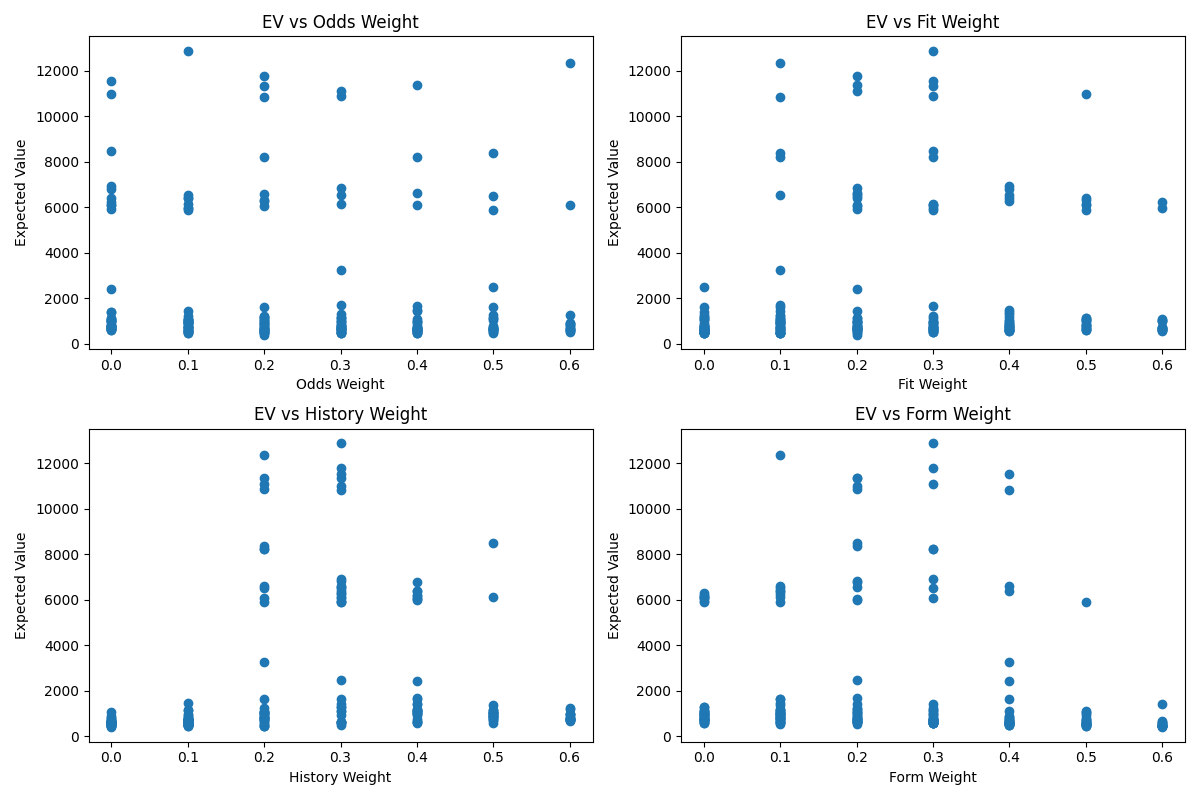
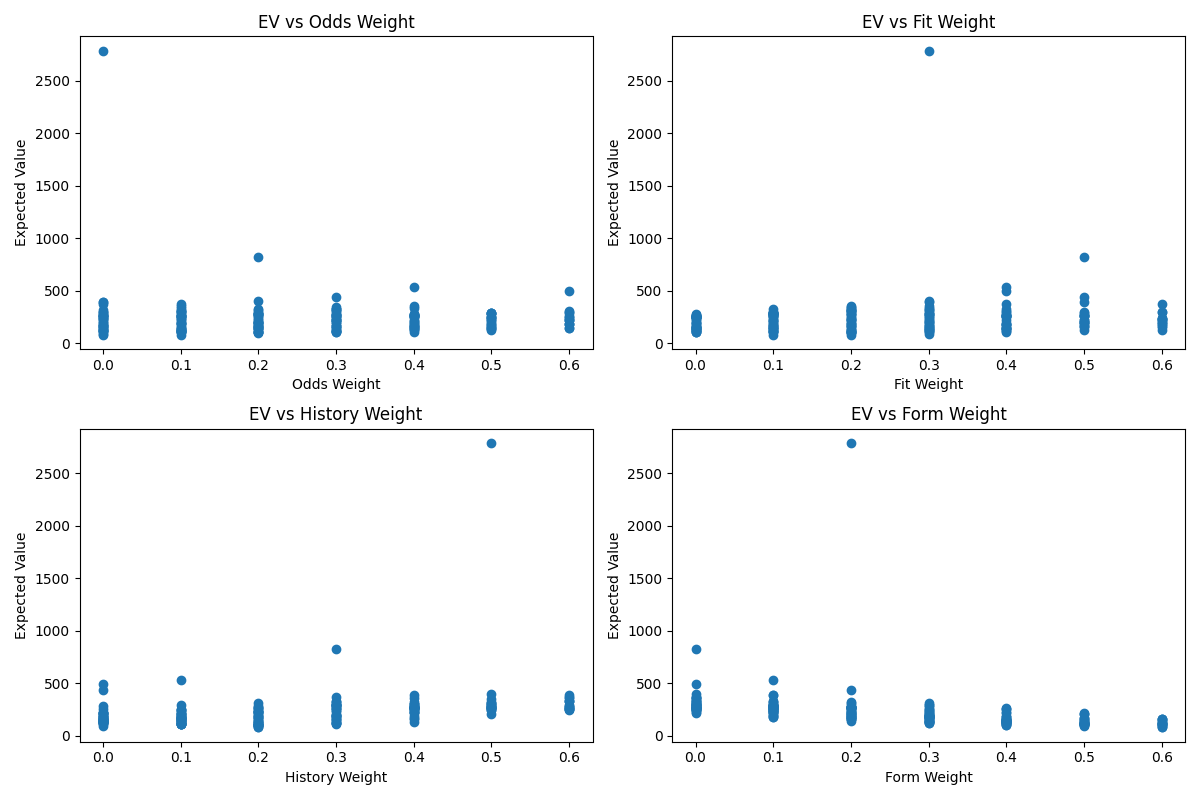
commented out func

diff --git a/pga_v5.py b/pga_v5.py
@@ -535,64 +535,64 @@ def calculate_fit_score_from_csv(name: str, course_fit_df: pd.DataFrame) -> floa
     max_rank = course_fit_df['projected_course_fit'].max()
     return 100 * (1 - (fit_score / max_rank))
 
-def calculate_form_score(tourney: str, weights: dict) -> pd.DataFrame:
-    """
-    Calculate form score by merging current and long-term form data with weights
+# def calculate_form_score(tourney: str, weights: dict) -> pd.DataFrame:
+#     """
+#     Calculate form score by merging current and long-term form data with weights
     
-    Args:
-        tourney: Tournament name
-        weights: Dictionary containing form weights
+#     Args:
+#         tourney: Tournament name
+#         weights: Dictionary containing form weights
     
-    Returns:
-        DataFrame with merged form data and final form score
-    """
-    # Load PGA stats (long-term form)
-    pga_stats = pd.read_csv(f'2025/{tourney}/pga_stats.csv')
+#     Returns:
+#         DataFrame with merged form data and final form score
+#     """
+#     # Load PGA stats (long-term form)
+#     pga_stats = pd.read_csv(f'2025/{tourney}/pga_stats.csv')
     
-    # Initialize form DataFrame with long-term stats
-    form_df = pga_stats[['Name', 'sg_total']].copy()
-    form_df = form_df.rename(columns={'sg_total': 'long_term_form'})
+#     # Initialize form DataFrame with long-term stats
+#     form_df = pga_stats[['Name', 'sg_total']].copy()
+#     form_df = form_df.rename(columns={'sg_total': 'long_term_form'})
     
-    # Try to load current form data
-    current_form_path = f'2025/{tourney}/current_form.csv'
-    if os.path.exists(current_form_path):
-        print("Loading and merging current form data...")
-        current_form = pd.read_csv(current_form_path)
+#     # Try to load current form data
+#     current_form_path = f'2025/{tourney}/current_form.csv'
+#     if os.path.exists(current_form_path):
+#         print("Loading and merging current form data...")
+#         current_form = pd.read_csv(current_form_path)
         
-        # Calculate current form total
-        sg_columns = ['sg_off_tee', 'sg_approach', 'sg_around_green', 'sg_putting']
-        finishes = current_form['recent_finishes'].apply(_parse_recent_finishes)
-        current_form['current_form'] = current_form[sg_columns].sum(axis=1)
+#         # Calculate current form total
+#         sg_columns = ['sg_off_tee', 'sg_approach', 'sg_around_green', 'sg_putting']
+#         finishes = current_form['recent_finishes'].apply(_parse_recent_finishes)
+#         current_form['current_form'] = current_form[sg_columns].sum(axis=1)
 
         
-        # Merge with form_df, using outer join to keep all players from both sources
-        form_df = pd.merge(
-            form_df, 
-            current_form[['Name', 'current_form']], 
-            on='Name', 
-            how='outer'  # Changed from 'left' to 'outer'
-        )
+#         # Merge with form_df, using outer join to keep all players from both sources
+#         form_df = pd.merge(
+#             form_df, 
+#             current_form[['Name', 'current_form']], 
+#             on='Name', 
+#             how='outer'  # Changed from 'left' to 'outer'
+#         )
         
-        # Fill NaN values with the other source if available
-        form_df['current_form'] = form_df['current_form'].fillna(form_df['long_term_form'])
-        form_df['long_term_form'] = form_df['long_term_form'].fillna(form_df['current_form'])
+#         # Fill NaN values with the other source if available
+#         form_df['current_form'] = form_df['current_form'].fillna(form_df['long_term_form'])
+#         form_df['long_term_form'] = form_df['long_term_form'].fillna(form_df['current_form'])
         
-        # Calculate weighted form score
-        # For players with only current form, use that exclusively
-        form_df['Form Score'] = np.where(
-            form_df['long_term_form'].isna(),
-            form_df['current_form'],  # Use only current form if no long-term data
-            form_df['current_form'] * weights['form']['current'] + 
-            form_df['long_term_form'] * weights['form']['long']
-        )
-    else:
-        print("Current form data not found, using PGA stats only")
-        form_df['Form Score'] = form_df['long_term_form']
+#         # Calculate weighted form score
+#         # For players with only current form, use that exclusively
+#         form_df['Form Score'] = np.where(
+#             form_df['long_term_form'].isna(),
+#             form_df['current_form'],  # Use only current form if no long-term data
+#             form_df['current_form'] * weights['form']['current'] + 
+#             form_df['long_term_form'] * weights['form']['long']
+#         )
+#     else:
+#         print("Current form data not found, using PGA stats only")
+#         form_df['Form Score'] = form_df['long_term_form']
     
-    # Clean up intermediate columns
-    form_df = form_df[['Name', 'Form Score']]
+#     # Clean up intermediate columns
+#     form_df = form_df[['Name', 'Form Score']]
     
-    return form_df
+#     return form_df
 
 def normalize_with_outlier_handling(series: pd.Series) -> pd.Series:
     """

diff --git a/backtest/pga_v5_backtest.py b/backtest/pga_v5_backtest.py
@@ -232,7 +232,7 @@ def backtest_weights() -> Tuple[List[Dict], List[float], List[float], List[float
     multiple metrics including success score.
     """
     tournaments = ["The_Sentry", "Sony_Open_in_Hawaii", "The_American_Express", "Farmers_Insurance_Open", "AT&T_Pebble_Beach_Pro-Am", "WM_Phoenix_Open", "Mexico_Open_at_VidantaWorld", "Cognizant_Classic_in_The_Palm_Beaches", "Arnold_Palmer_Invitational_presented_by_Mastercard", "THE_PLAYERS_Championship", "Valspar_Championship", "Texas_Children's_Houston_Open", "Valero_Texas_Open", "RBC_Heritage"]
-    # tournaments = tournaments[-5:]
+    tournaments = tournaments[-5:]
     weight_combinations = generate_weight_combinations()
     results_file = "backtest/pga_v5_backtest_results.csv"
     
